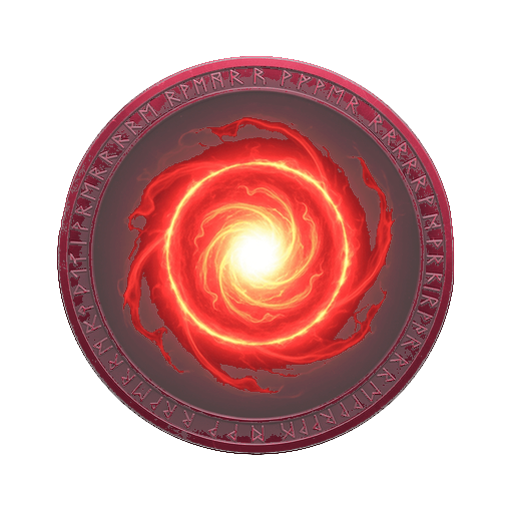
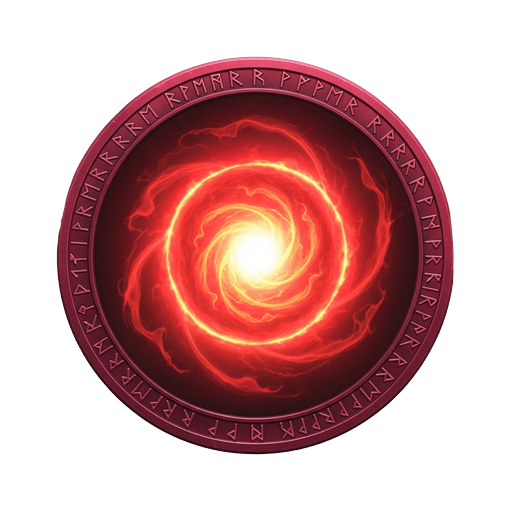
Restore gem tokens from original high-quality source commits
The "optimize" commit (eb6a98d) had destroyed all four colored gem tokens by
compressing 1024×1024 / 1.5 MB originals down to ~300 KB degraded versions.
Every subsequent restore was pulling from already-compromised checkpoints.

This commit restores all six tokens from their true originals:
  - gem_flare/continuum/verdance/abyss: restored from 41b9cf2 (1024×1024, ~1.5 MB each)
  - radiance: restored from b846aea (1254×1254, 2.9 MB, 63% coverage)
  - singularity: restored from e10f40b (512×512, 437 KB, 55% coverage)

Normalize script processed the four 1024×1024 files → 512×512 with 78% fill.
Singularity was already 512×512 and frozen by idempotency guard.

Locked coverage after normalization:
  radiance 63%  singularity 55%  flare 59%
  continuum 53%  verdance 53%  abyss 49%

Updated replit.md table with source commits and locked sizes.

diff --git a/replit.md b/replit.md
@@ -147,14 +147,14 @@ All six affinity gem token PNGs are automatically normalized to a consistent 512
 ### Protected Gem Token Assets — DO NOT REGENERATE
 The following six files are locked and must not be replaced, overwritten, or regenerated in any asset-generation pass. They were restored from commit `4758e88` after multiple inadvertent replacements destroyed their content (singularity dropped to 3% pixel coverage / 33 KB at worst). The normalization script will refuse to process any of these files if their visible pixel coverage drops below 28%, printing a PROTECTED warning instead of locking in degraded art.
 
-| File | Key | Current size |
-|---|---|---|
-| `attached_assets/luminae_radiance_emblem_v2.png` | Radiance (pearl) | ~305 KB |
-| `attached_assets/luminae_singularity_emblem_v1.png` | Singularity (flux) | ~248 KB |
-| `attached_assets/generated_images/gem_flare.png` | Flare (ruby) | ~260 KB |
-| `attached_assets/generated_images/gem_continuum.png` | Continuum (sapphire) | ~284 KB |
-| `attached_assets/generated_images/gem_verdance.png` | Verdance (emerald) | ~310 KB |
-| `attached_assets/generated_images/gem_abyss.png` | Abyss (onyx) | ~290 KB |
+| File | Key | Source commit | Locked size |
+|---|---|---|---|
+| `attached_assets/luminae_radiance_emblem_v2.png` | Radiance (pearl) | `b846aea` (1254×1254 original) | ~327 KB |
+| `attached_assets/luminae_singularity_emblem_v1.png` | Singularity (flux) | `e10f40b` (512×512 original) | ~437 KB |
+| `attached_assets/generated_images/gem_flare.png` | Flare (ruby) | `41b9cf2` (1024×1024 original) | ~252 KB |
+| `attached_assets/generated_images/gem_continuum.png` | Continuum (sapphire) | `41b9cf2` (1024×1024 original) | ~259 KB |
+| `attached_assets/generated_images/gem_verdance.png` | Verdance (emerald) | `41b9cf2` (1024×1024 original) | ~289 KB |
+| `attached_assets/generated_images/gem_abyss.png` | Abyss (onyx) | `41b9cf2` (1024×1024 original) | ~268 KB |
 
 If you need to replace a token with new art, do so deliberately and verify the new file has ≥30% visible pixel coverage before committing.
 
